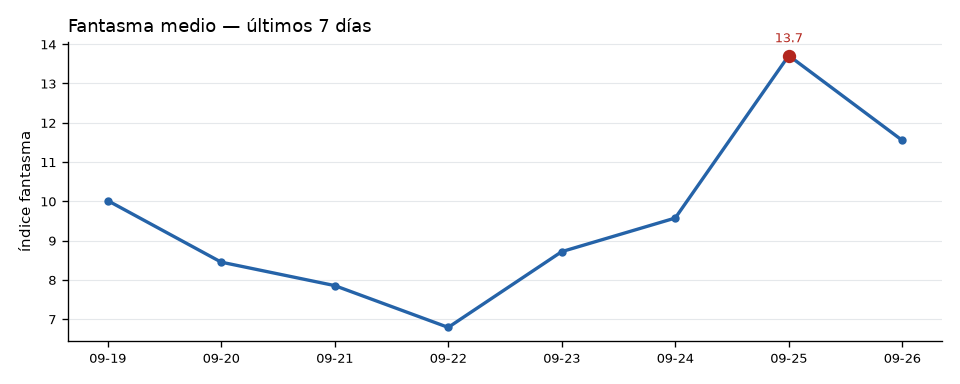
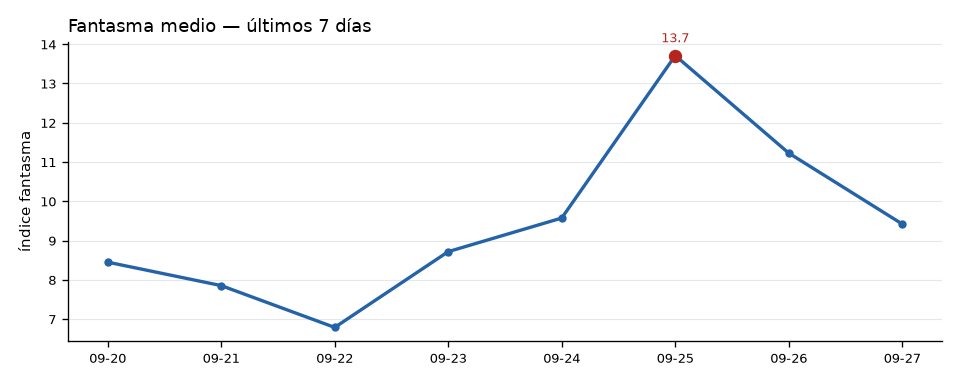
🌍 Reporte Roy 2026-09-27 06:37 UTC

diff --git a/estado/REPORTE_COMPARATIVO.md b/estado/REPORTE_COMPARATIVO.md
@@ -1,14 +1,14 @@
-# 🔄 Comparativo diario — 2026-09-26 vs 2026-09-25
-*Corte 12:26 hora MX*
+# 🔄 Comparativo diario — 2026-09-27 vs 2026-09-26
+*Corte 00:37 hora MX*
 
 | Métrica | Hoy | Ayer | Cambio |
 |---|---:|---:|---:|
-| Fantasma medio | 11.5 | 13.7 | ▼ -2.2 |
-| Fantasma máx | 13.4 | 15.5 | ▼ -2.0 |
-| Ciclos corridos | 10 | 12 | ▼ -2 |
+| Fantasma medio | 9.4 | 11.2 | ▼ -1.8 |
+| Fantasma máx | 9.5 | 13.4 | ▼ -3.9 |
+| Ciclos corridos | 4 | 12 | ▼ -8 |
 | Breaches del Muro | 0 | 0 | ＝ +0 |
 | Asertividad viva (resuelta en el día) | — | — | — |
-| Patrones cimáticos (total / nuevos 24h) | 1647 | — | +16 |
+| Patrones cimáticos (total / nuevos 24h) | 1654 | — | +23 |
 
 ## ✅ Aciertos — Últimas 24 horas
 
